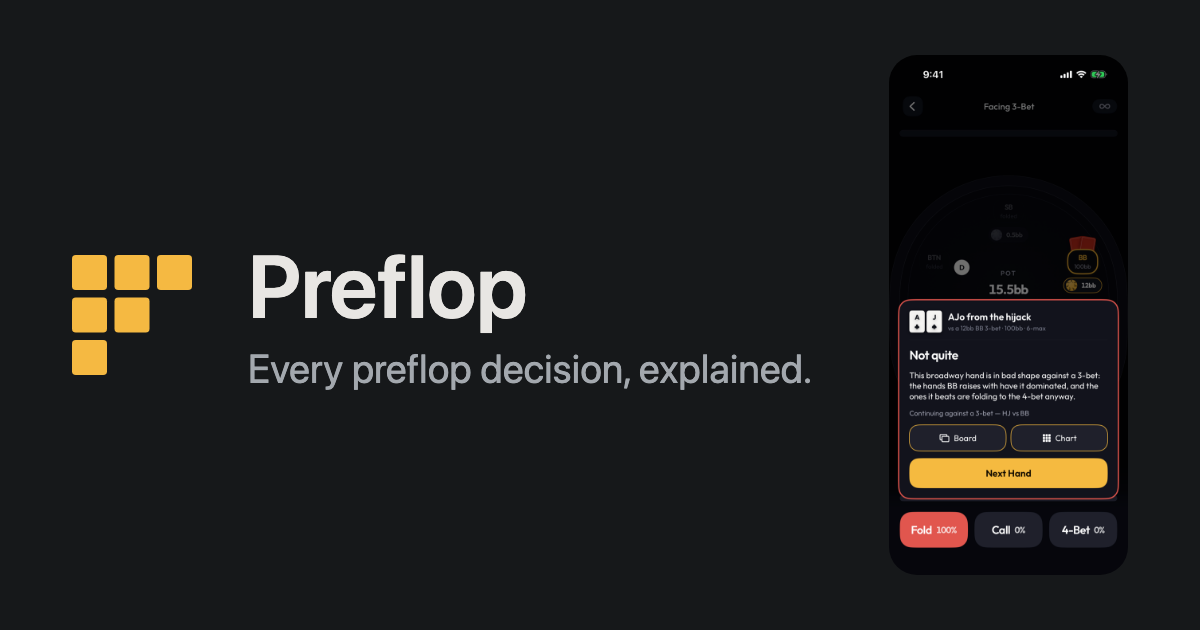
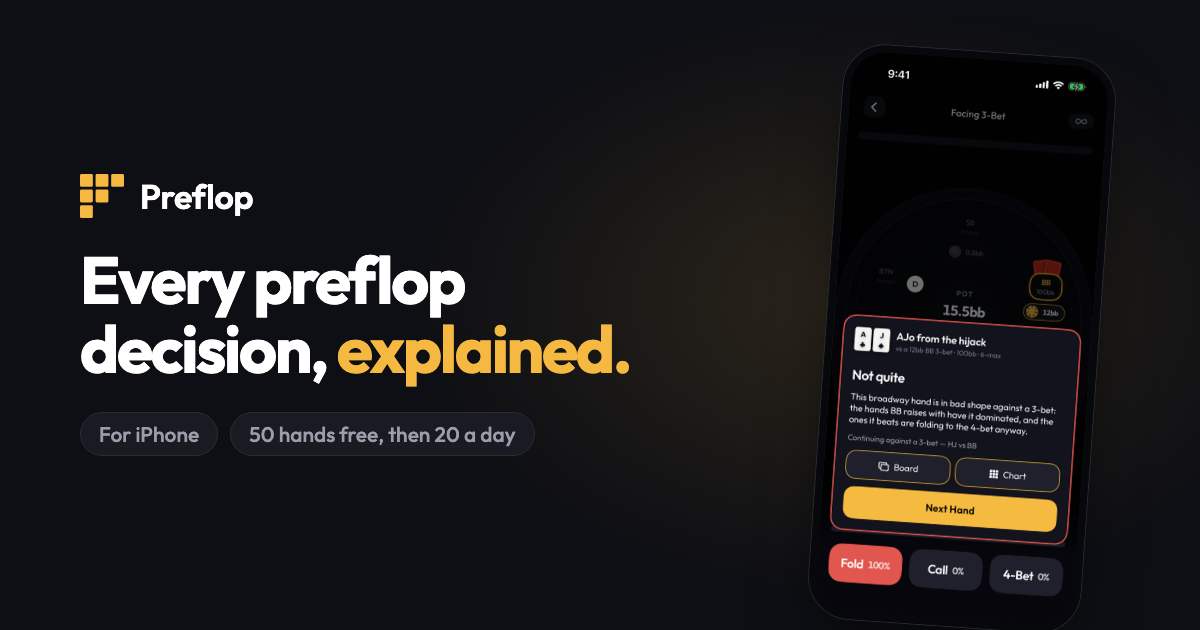
Re-render the social card in the site's new look, from a checked-in source (#9)
og.png was a one-off headless render of the pre-rebrand homepage: system
font, the old #16181a dark and a white-bezelled phone. It now comes from
scripts/og-card.html, which uses the same Outfit cuts, AppTheme dark
tokens, warm glow and black bezel as the live site, and repeats the home
page's og:title ("Every preflop decision, explained.").

The card says "For iPhone" and "50 hands free, then 20 a day", which
stay true after launch, and not "Coming soon", which would go stale on
approval day. The key text sits in the left 630px, so square crops still
read.

scripts/render-og.sh re-renders it with plain headless Chrome, with no
node or npm needed; scripts/README.md says when to. scripts/ is already
excluded from the deploy.

diff --git a/scripts/og-card.html b/scripts/og-card.html
@@ -1,0 +1,63 @@
+<!doctype html>
+<!-- Source for /assets/og.png, the 1200×630 link-preview card every page
+     shares. Render with scripts/render-og.sh; see scripts/README.md.
+     Colours are AppTheme.swift's dark tokens and the type is the site's own
+     Outfit, so the card matches the site and the app. Kept out of the deploy
+     (scripts/ is excluded) and out of check-site.py. -->
+<html lang="en">
+<head>
+<meta charset="utf-8">
+<title>og card</title>
+<style>
+@font-face { font-family: Outfit; font-weight: 400; src: url("../assets/fonts/Outfit-Regular.woff2") format("woff2"); }
+@font-face { font-family: Outfit; font-weight: 500; src: url("../assets/fonts/Outfit-Medium.woff2") format("woff2"); }
+@font-face { font-family: Outfit; font-weight: 600; src: url("../assets/fonts/Outfit-SemiBold.woff2") format("woff2"); }
+@font-face { font-family: Outfit; font-weight: 700; src: url("../assets/fonts/Outfit-Bold.woff2") format("woff2"); }
+
+:root {
+  --bg: #0e0f14; --panel: #191a22; --rule: #2a2b33;
+  --ink: #ffffff; --ink-2: #9b9dab;
+  --accent: #f5b942; --bezel: #07080b;
+}
+* { box-sizing: border-box; margin: 0; }
+html, body { width: 1200px; height: 630px; overflow: hidden; }
+body {
+  font-family: Outfit, sans-serif; color: var(--ink);
+  background:
+    radial-gradient(640px 420px at 860px 300px, rgba(245, 185, 66, 0.13), transparent 70%) no-repeat,
+    var(--bg);
+  position: relative;
+}
+/* Everything that must survive a square crop stays in the left 630px. */
+.copy { position: absolute; left: 80px; top: 0; bottom: 0; width: 640px; display: flex; flex-direction: column; justify-content: center; gap: 28px; }
+.brand { display: flex; align-items: center; gap: 16px; }
+.brand svg { width: 44px; height: 44px; fill: var(--accent); }
+.brand span { font-size: 34px; font-weight: 600; letter-spacing: -0.01em; }
+h1 { font-size: 66px; line-height: 1.04; font-weight: 700; letter-spacing: -0.035em; }
+h1 em { font-style: normal; color: var(--accent); }
+.meta { display: flex; gap: 12px; }
+.meta span {
+  font-size: 21px; font-weight: 500; color: var(--ink-2);
+  padding: 8px 18px; border-radius: 999px; border: 1px solid var(--rule); background: var(--panel);
+}
+.phone {
+  position: absolute; left: 846px; top: 52px; width: 272px;
+  border: 7px solid var(--bezel); border-radius: 42px; overflow: hidden;
+  box-shadow: 0 0 0 1px var(--rule), 0 30px 70px -20px rgba(0, 0, 0, 0.7);
+  transform: rotate(4deg); transform-origin: 50% 0;
+}
+.phone img { display: block; width: 100%; height: auto; }
+</style>
+</head>
+<body>
+  <div class="copy">
+    <div class="brand">
+      <svg viewBox="0 0 96 96" aria-hidden="true"><rect x="0" y="0" width="28" height="28" rx="3"/><rect x="34" y="0" width="28" height="28" rx="3"/><rect x="68" y="0" width="28" height="28" rx="3"/><rect x="0" y="34" width="28" height="28" rx="3"/><rect x="34" y="34" width="28" height="28" rx="3"/><rect x="0" y="68" width="28" height="28" rx="3"/></svg>
+      <span>Preflop</span>
+    </div>
+    <h1>Every preflop decision, <em>explained.</em></h1>
+    <div class="meta"><span>For iPhone</span><span>50 hands free, then 20 a day</span></div>
+  </div>
+  <div class="phone"><img src="../assets/screens/explain.png" alt=""></div>
+</body>
+</html>

diff --git a/scripts/README.md b/scripts/README.md
@@ -36,3 +36,18 @@ Pushes to main run the existing Cloudflare Pages deployment and smoke checks.
   the owner supplies a listing. The demo frame stays fixed through feedback
   and results; the pricing comparison presents Free as daily practice and Pro
   as unlimited, targeted study with detailed accuracy and full history.
+
+## Social card (`assets/og.png`)
+
+Every page's link preview uses `/assets/og.png` (1200×630). Its source is
+`scripts/og-card.html`, which uses the site's Outfit fonts, the app's dark
+tokens and `assets/screens/explain.png`. After editing it, or after a
+screenshot or copy change it depends on, re-render and commit the PNG:
+
+```sh
+scripts/render-og.sh
+```
+
+It needs Google Chrome (set `CHROME` to use another path). Keep the text in
+the left 630px so a square crop still reads, and keep claims in line with
+the free-tier numbers in `FreeTierConfig`.
